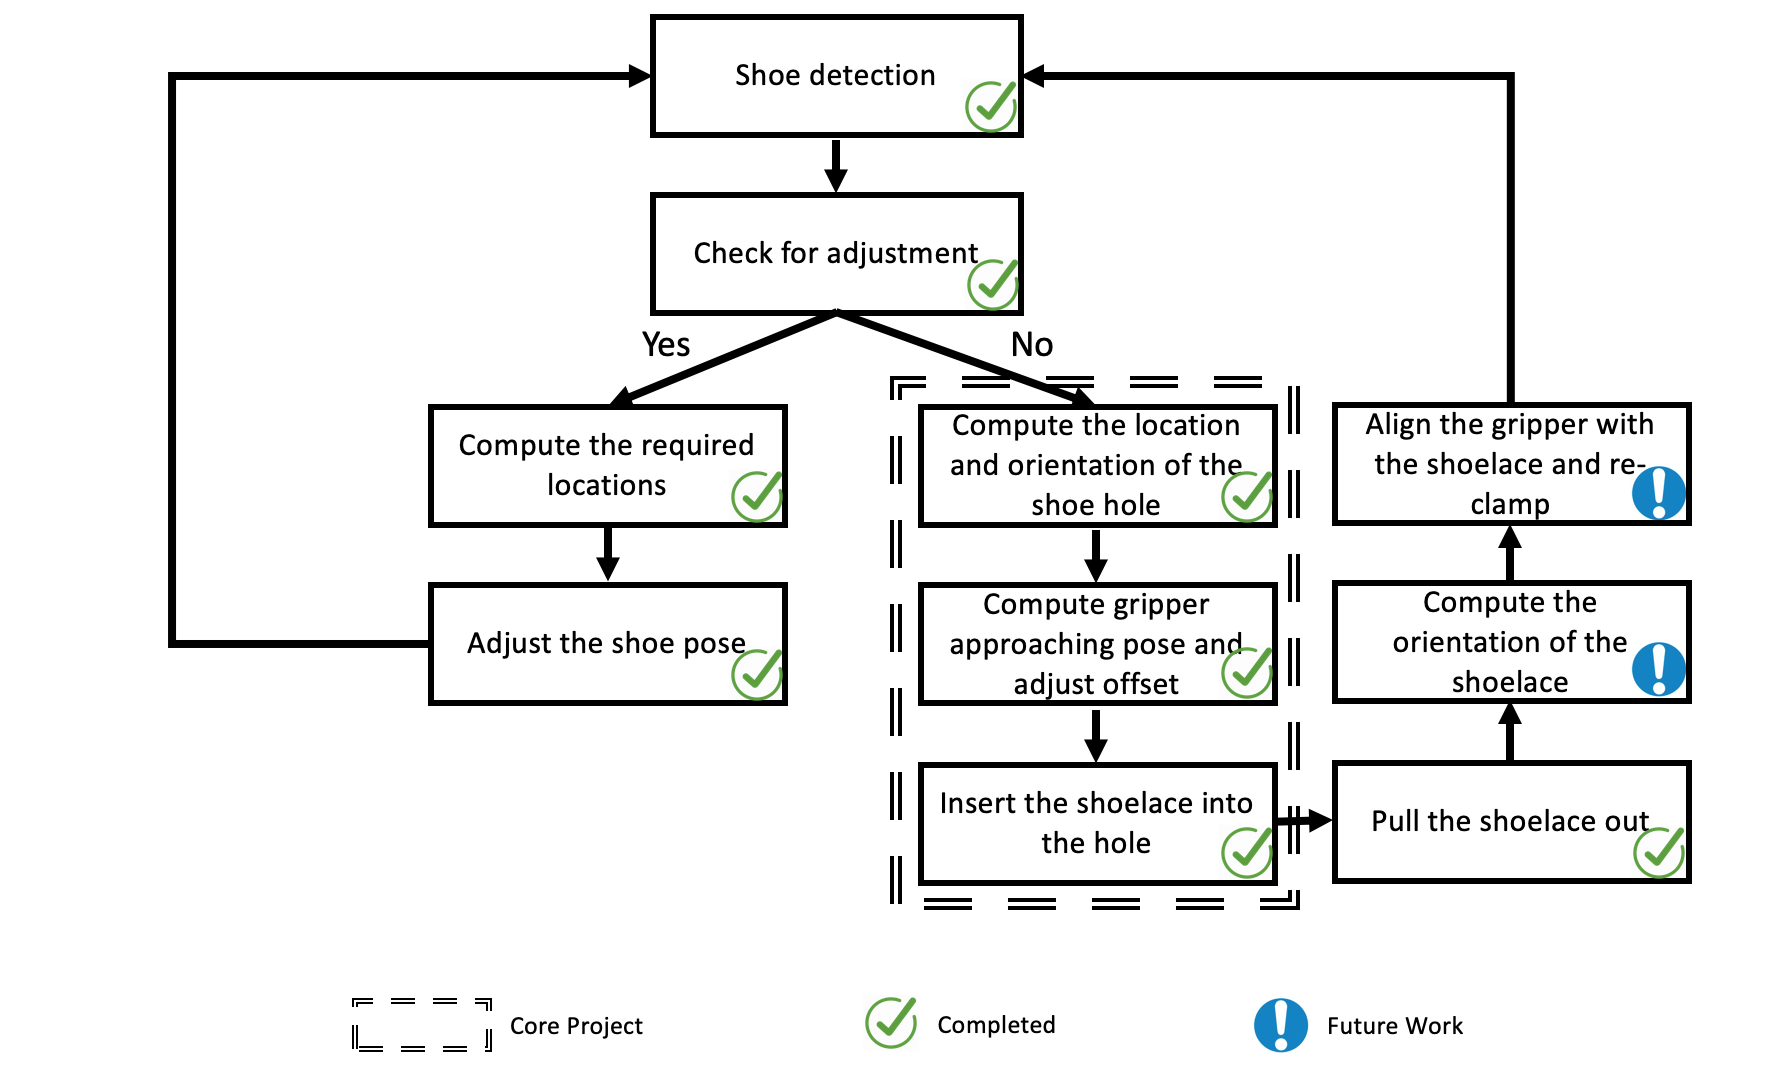
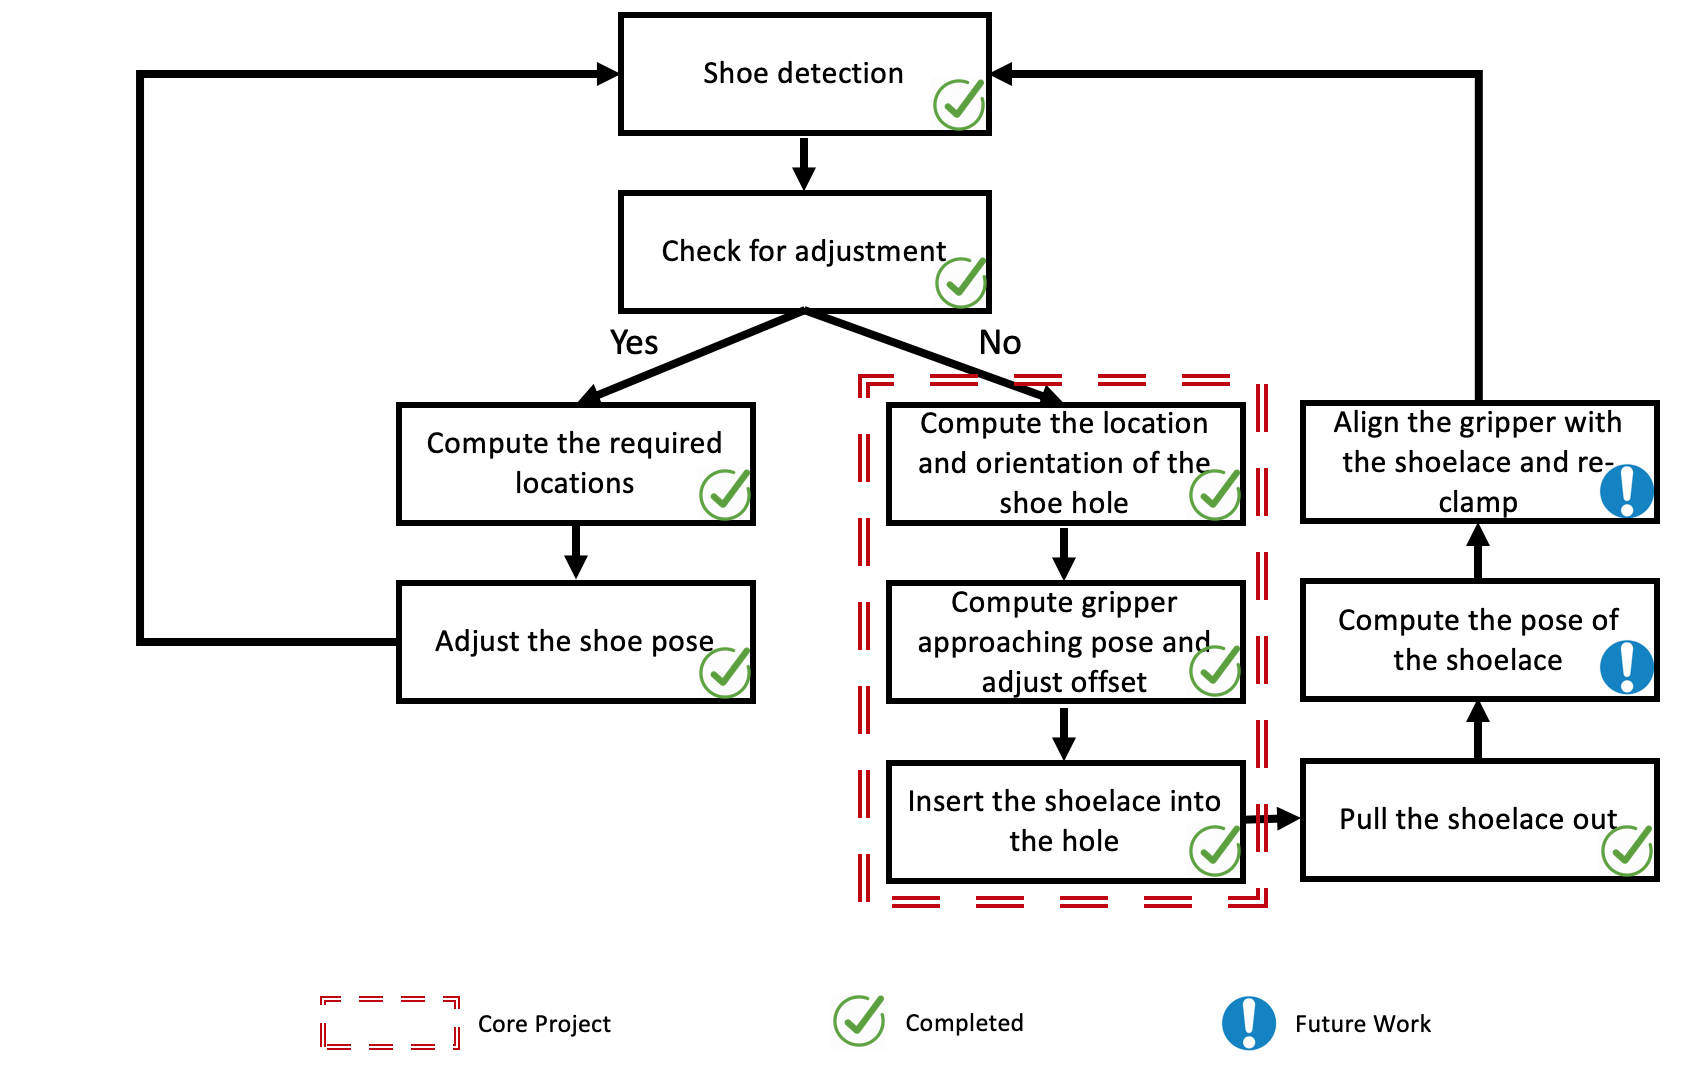
Updates from Overleaf

diff --git a/background/background.tex b/background/background.tex
@@ -3,12 +3,12 @@
 % The background section of the report should set the project into context by relating it to existing published work which you read at the start of the project when your approach and methods were being considered. The published work may be in the form of research papers, articles, text books, technical manuals, or even existing software or hardware of which you have had hands-on experience.
 
 %link (and make explicit this link between) the different topics in a coherent pipeline: hardware-(choice of robot) > motion planning->state information (camera) (object detection +  orientation detection)-> etc
-This chapter contains the background information of this project. Several potential implementation approaches are discussed and the design choices are made. As illustrated in Figure \ref{bgov}, the content starts with robot selection, then dives into motion planning algorithms. The available cameras that provide state information for robot are then evaluated. After that, the techniques for objects 6D pose calculation are summarised and compared, which consists of object detection and orientation estimation. Finally, the system and software to implement the selected methods are introduced.
+This chapter contains the background information of this project. Several potential implementation approaches are discussed and the design choices are made. As illustrated in Figure \ref{bgov}, the content starts with robot selection, then dives into motion planning algorithms. The available cameras that provide state information for the robot are then evaluated and chosen. After that, the techniques for objects 6D pose calculation are summarised and compared, which consists of object detection and orientation estimation. Finally, the system and software that used to implement the selected methods are introduced.
 
 \begin{figure}[H]
 \centering
 \includegraphics[width = \columnwidth]{background/backgroundov.png}
-\caption{}
+\caption{The order of background introduction}
 \label{bgov}
 \end{figure}
 
@@ -35,7 +35,7 @@ The purpose of robotic motion planning is to seek the solution of the problem of
 
 \begin{itemize}
     \item \textbf{Work Space:} The physical space where the robot operates.
-    \item \textbf{Configuration/State Space:} The configuration that describes the robot pose. For a solid 3D robot like YuMi, it can perform both translation and rotation. Therefore, a configuration needs 6 parameters: (x, y, z) for translation and (roll, pitch, yaw) for rotation, whose relationships are shown in Figure \ref{rpy}.
+    \item \textbf{Configuration/State Space:} The configuration that describes the robot pose. For a solid 3D robot like YuMi, it can perform both 3D translation and 3D rotation. Therefore, a configuration needs 6 parameters: (x, y, z) for translation and (roll, pitch, yaw) for rotation, whose relationships are shown in Figure \ref{rpy}.
 \end{itemize}
 
 \begin{figure}[H]
@@ -57,27 +57,27 @@ According to \citep{OMPLPrim20:online}, there are plenty of methods still applic
 \begin{figure}[H]
 \centering
 \includegraphics[width = \columnwidth]{background/cell.png}
-\caption{From left to right: approximate cell decomposition, exact cell decomposition, and motion planning using exact cell decomposition. The blue regions are obstacles. \citep{celldecom}}
+\caption{2D cell decomposition example where the blue regions are obstacles \citep{celldecom}. From left to right: approximate cell decomposition, exact cell decomposition, and motion planning using exact cell decomposition. The available path is through C3, C6, C9, C10, C12, C13, and C15.}
 \label{cell}
 \end{figure}
 
 \begin{itemize}
-    \item \textbf{Exact and Approximate Cell Decomposition:} This approach partitions the work space into discrete cells that corresponding to free space, where edges represent adjacency among cells and vertices indicate the individual cells (see Figure \ref{cell}). Therefore, the motion planning problem becomes a search from starting cell to the cell with goal position. This method has a trade off when setting the grid resolution. Coarser grid gives a faster search, but cannot find path for narrow parts of free space. Moreover, the number of points on the grid is exponentially proportional to configuration space dimension, which is inappropriate for this project.
+    \item \textbf{Exact and Approximate Cell Decomposition:} This approach partitions the work space into discrete cells that corresponding to free space, where edges represent adjacency among cells and vertices indicate the individual cells (see Figure \ref{cell}). Therefore, the motion planning problem becomes a search from starting cell to the cell with goal position. This method has a trade off when setting the grid resolution. Coarser grid gives a faster search, but cannot find path for narrow parts of free space. Moreover, the number of points on the grid is exponentially proportional to configuration space dimension. This project has 6D state space, thus it is inappropriate to use this method.
 
     \item \textbf{Control-based Methods:} This method employed control theory and operates in continuous space. It typically uses feedback loops to manipulate the robot with minimal error. However, in complex dynamics environments, it is hard to calculate a feasible trajectory and the valid motions will be restricted.
+
+    \item \textbf{Potential Fields:} This technique computes a vector at each point in the work space by summing up the an attractive force emanating from the goal, and a repulsive force from all obstacles and the boundaries (see Figure \ref{potentialexample}). It treats the configuration of robot as a point in a potential field. Although it only requires little computation, navigating using gradient descent to follow the potentials to goal can fail due to local minima in the field. This issue occurs when the attractive forces and repelling forces cancel each other out at a specific point.
 \end{itemize}
 
 \begin{figure}[H]
 \centering
-\subfigure[\citep{potential}]{\includegraphics[height=5.3cm,keepaspectratio]{background/potentialfield.png}}
-\subfigure[\citep{3dpotential}]{\includegraphics[height=5.3cm,keepaspectratio]{background/potentialfield3d.jpg}}
-\caption{The potential fields when !! there is a goal and an obstacle}
+\subfigure[Potential field in a 2D space contains a goal and an obstacle \citep{potential}]{\includegraphics[height=5.3cm,keepaspectratio]{background/potentialfield.png}}
+\subfigure[Potential field in 3D space \citep{3dpotential}. Warm colors represent high potential (obstacles) and cool colors indicate low potential (goals).]{\includegraphics[height=5.3cm,keepaspectratio]{background/potentialfield3d.jpg}}
+\caption{Example of the potential field approach}
 \label{potentialexample}
 \end{figure}
 
 \begin{itemize}
-    \item \textbf{Potential Fields:} This technique computes a vector at each point in the work space by summing up the an attractive force emanating from the goal, and a repulsive force from all obstacles (see Figure \ref{potentialexample}). It treats the configuration of robot as a point in a potential field. Although it only requires little computation, navigating using gradient descent to follow the potentials to goal can fail due to local minima in the field.
-    
     \item \textbf{Randomized Planning:} Randomization can be effective in motion planning. For example, in potential fields, it has been shown that Brownian motions where applying a random action for a specific amount of time can effectively guide a system out of the local minima.
 \end{itemize}
 
@@ -112,7 +112,7 @@ There are many existing sampling-based algorithms, such as Rapidly-expanding Ran
 \subfigure[The first few random valid samples have been connected to the tree using an expansion heuristic]{\includegraphics[width = 0.45\columnwidth]{background/rm5.png}}
 \subfigure[Case when the goal cannot be connected to the tree because of an obstacle]{\includegraphics[width = 0.45\columnwidth]{background/rm6.png}}
 \subfigure[Case when the goal can be connected to the tree]{\includegraphics[width = 0.45\columnwidth]{background/rm7.png}}
-\caption{Tree-based Planners example \citep{OMPLPrim20:online}}
+\caption{Tree-based planners example \citep{OMPLPrim20:online}}
 \label{tree}
 \end{figure}
 

diff --git a/AnalysisDesign/analysisdesign.tex b/AnalysisDesign/analysisdesign.tex
@@ -18,7 +18,7 @@ The dual-arm robot YuMi communicates with ROS using Personal Robotics Lab setup 
 
 Figure \ref{c4} displays the system overview of this project, which consists six components: the shoe, the camera, computer vision module, ROS Kinetic, motion planning module, and YuMi. Blue arrows represent computer vision messages and orange arrows indicate related motion plans and manipulations.
 
-Starting from the camera, which consistently recording RGB and depth images of the workbench and outputs them to the computer vision module. The module then performs several functions including shoe detection, shoe hole tracking, 6D shoe hole pose estimation etc and publishes the corresponding message to ROS topics. After that, the motion planning module subscribes these information and plans YuMi arms trajectories accordingly to adjust shoe pose or put lace on a hole. If the planning succeeds, YuMi will then execute these motions to manipulate shoe and shoe lace.
+Starting from the camera, which consistently recording RGB and depth images of the workbench and outputs them to the computer vision module. The module then performs several functions including shoe detection, shoe hole tracking, 6D shoe hole pose estimation etc and publishes the corresponding message to ROS topics. After that, the motion planning module subscribes these information and plans YuMi arms trajectories accordingly to adjust shoe pose or put lace on a hole. If the planning succeeds, YuMi will then execute these motions to manipulate the shoe and shoe lace.
 
 %detail---------------------------
 \section{System Workflow}
@@ -26,10 +26,10 @@ Starting from the camera, which consistently recording RGB and depth images of t
 \begin{figure}[H]
 \centering
 \includegraphics[width = \columnwidth]{AnalysisDesign/workflow.png}
-\caption{System workflow}
+\caption{System workflow for both core project and the extension}
 \label{workflow}
 \end{figure}
 
-discussion ................
+Figure \ref{workflow} is the illustration of the system workflow, where orange boxes are motion planning related and blue boxes are about computer vision. Starting with shoe detection, the system will then evaluate whether the shoe is in a good pose for manipulation or not. If the answer is negative, the required locations for adjustment will be computed and YuMi should manipulate the shoe accordingly. On the contrary, the system will compute the gripper approaching pose for shoelace insertion based on the estimated 6D pose of the shoe hole. Once the offset being correctly adjusted, YuMi will pass the shoelace into that hole and pull it out. Finally, the 6D pose of the shoelace will be calculated and the YuMi will reclamp it so that the gripper and shoelace can be aligned. After this stage, the system is back to shoe detection and ready for next hole.
 
-The following two chapters will discuss detailed implementation approaches.
+This workflow allows YuMi to plan a sequences of arm trajectories to put the shoelace on the shoe hole up to finishing the whole shoe. The following two chapters will discuss detailed implementation approaches for computer vision module and motion planning module respectively.

diff --git a/TaR/tar.tex b/TaR/tar.tex
@@ -4,7 +4,7 @@ In order to examine the performance and robustness of my approach, a serious of 
 
 In all experiments, I utilize the same platform as shown in Figure \ref{5.1}. It consists of a YuMi robot and an external camera (ZED Mini or ASUS Xtion). In order to maximize the accuracy while ensuring a reasonable frame speed, ZED Mini camera with 1080p resolution is chosen for all the experiments in this chapter. The marked shoe will be placed on the workbench within the area YuMi can reach. All tests were conducted under normal lighting conditions. 
 
-\section{Shoe Detection and Coordinate Estimation}
+\section{Computer Vision Module}
 The purpose of this part experiment is to assess the robustness of object detection and if the system can correctly compute adjustment locations or the centroid of the shoe hole.
 
 The marked shoe will be placed at random location on the workbench for 10 times, together with other disturbing objects. For each location, I rotate the shoe 5 times to adjust its orientation. YOLO algorithm will be used to perform shoe detection and return the prediction probability and the bounding box. Its performance is illustrated in Table \ref{yolotest}.
@@ -78,7 +78,7 @@ Shoe pose adjustment & 33s & 19/20 \\ \hline
 The execution time is measured from \ref{realadjust} (a) to \ref{realadjust} (e), including total 5 movements. In 19 runs, YuMi finishes its job without failures. Only one adjustment fails: after YuMi adjusting the orientation of the shoe, both arms tried to return to Home pose, which is the motion after \ref{realadjust} (e). At this time, the left arm of YuMi collided with the heel-cap of the shoe because the height of end-effector is relatively low. The robot then stopped operation due to this detected collision. After I modifying the height settings at \ref{realadjust} (e), this problem was resolved and did not happen in later tests.
 
 
-\section{Insertion and Pulling of The Shoelace}
+\section{Insertion and Pulling of the Shoelace}
 So far, the accuracy of YuMi's approaching pose for shoelace insertion still depends on two factors: the accuracy of estimation of shoe hole orientation, and the offset adjustment. Together with my motion planning algorithm, the real shoe insertion tests were carried out 30 times based on the condition that the 2D pixel centroid of the shoe hole and its contour area are correctly computed. It was mentioned in the Requirement Capture Chapter that shoelace were assumed to be in YuMi gripper at the beginning. Therefore, in this experiment, I manually put the shoelace in the gripper and align their directions at initial stage (Figure \ref{putexample} (a)).
 
 This experiment is divided into three levels: pass the shoe hole with $2.5mm$ radius, pass the shoe hole with $4.0mm$ radius, and pass the shoe hole with $7.5mm$ radius. The results are shown in Table \ref{insert}, where the execution time is recorded between Figure \ref{putexample} (a) and Figure \ref{putexample} (e), a total of three actions. 

diff --git a/introduction/introduction.tex b/introduction/introduction.tex
@@ -9,7 +9,7 @@ Speaking of non-industry environments, robot manipulation tasks usually cannot r
 \section{Objectives}
 %ability independently to formulate and solve technical problems in project work. 
 %project is intended to deliver, hardware, software, simulation, and analytical work.
-Therefore, as my final year project, I aim to develop an algorithm for a bi-manual robot so that it can put shoelace on a shoe. In the core project, starting with one arm holding one end of the shoelace, the robot should detect a shoe hole and plan an arm trajectory to pass the shoelace through that hole. As an extension, the robot should be able to plan sequences of trajectories in order to complete the whole shoe.
+Therefore, as my final year project, I aim to develop an algorithm for a bi-manual robot so that it can put shoelace on a marked shoe. In the core project, starting with one arm holding one end of the shoelace, the robot should detect a shoe hole and plan an arm trajectory to pass the shoelace through that hole. As an extension, the robot should be able to plan sequences of trajectories in order to complete the whole shoe.
 
 \section{Challenges}
 Due to the relatively small size of the shoe hole, this project requires a high degree of precision. Firstly, the optimal methods to localize the shoe hole need to be figured out. Then, the main challenge is to calculate the direction in which the lace should pass through the shoe hole in the dynamic environment. In addition, how to use robot arms to achieve this task accordingly also requires an accurate analysis. Finally, plenty of tests regarding the whole system need to be done in order to optimize the performance.
@@ -19,7 +19,7 @@ This report is structured as follows:
 
 \begin{itemize}
     \item \textbf{Chapter 2 - Background} provides a background analysis of this project, including the choice of robot and camera, possible implementation approaches for both motion planning and computer vision side, as well as the chosen operating system and software. 
-    \item \textbf{Chapter 3 - Requirement Capture} describes the detailed deliverables of the core project and extension, so that the reader can keep the objectives in mind while reading the remaining part.
+    \item \textbf{Chapter 3 - Requirement Capture} describes the detailed deliverables of the core project and the extension, so that the reader can keep the objectives in mind while reading the remaining part.
     \item \textbf{Chapter 4 - Analysis and Design} introduces the designed system overview and workflow in order to achieve both the core project and extension. A brief introduction to the operating system and the robot status is included as well.
     \item \textbf{Chapter 5 and 6 - Implementation} gives the detailed approaches to fulfill the project requirements.
     \item \textbf{Chapter 7 - Testing and Results} presents a series of experimental results of the implemented methods. Success rate and execution time are the two evaluation criteria.

diff --git a/main.tex b/main.tex
@@ -34,7 +34,7 @@ Robot motion planning based on computer vision is an important topic in the fiel
 
 In this project, I address the precise AI planning and control problem of putting shoelaces on a marked shoe using a bimanual robot, ABB YuMi, and an external camera. Starting with one arm holding one end of the shoelace, YuMi can adjust the orientation of the shoe if necessary, then pass the shoelace through the shoe hole. As an extension, YuMi will also plan sequences of trajectories for completing more holes up to finishing the whole shoe.
 
-The main emphasis of this project is on computing the precise 6D pose of the shoe hole in order to estimate the approaching pose of YuMi’s arm accordingly. The final approach to tackle this problem is by combining random sample consensus (RANSAC) technique and some pre-defined constraints. Other topics including dual arm motion planning, object detection and localization, and accurate offset adjustment are also covered. Every single function, as well as the whole process, is then experimented and evaluated.
+The main emphasis of this project is on computing the precise 6D pose of the shoe hole in order to estimate the approaching pose of YuMi’s arm accordingly. The final approach to tackle this problem is by combining random sample consensus (RANSAC) technique and some pre-defined constraints. Other topics including dual arm motion planning, object detection and localization, and accurate offset adjustment are also covered. Every single function, as well as the integrated system, is then experimented and evaluated.
 \end{abstract}
 
 \renewcommand{\abstractname}{Acknowledgements}

diff --git a/appendix/figtab.tex b/appendix/figtab.tex
@@ -1,14 +1,8 @@
 \appendix
 \chapter{Figures and Tables}
+%Information typically included are things like program listings, complex circuit diagrams, tables, proofs, graphs or any other material which would break up the theme of the text.
 
-%Self-propelled arrangement of and conduct at project meetings. 
-%Setting agendas and work plans. 
-%Ownership of project specification and development of objectives. 
-%Appropriate self-driven use of supervisor (or other people) as source of information and advice.
-
-%Information typically included are things like program listings, complex circuit diagrams, tables, proofs, graphs or any other material which would break up the theme of the text if it appeared in situ.
-
-Appendix A — put a small introduction on what will the reader see in this appendix
+%!!!!!!!!!!!!!!!!put a small introduction on what will the reader see in this appendix
 
 \begin{figure}[H]
 \centering

diff --git a/UserGuide/userguide.tex b/UserGuide/userguide.tex
@@ -1,10 +1,11 @@
 \chapter{User Guide}
+This guide aims to support anyone who would like to use the delivered system or continue this project. The Github repository is \url{https://github.com/Martinpanzy/FYP-Yumi}.
 
-install/ configure/ use
+\section{Dependencies}
+%install/ configure/ use
+\section{ROS Packages}
 
+\section{Usage}
 
-\url{https://github.com/Martinpanzy/FYP-Yumi}
-
-\section{Code}
-
-do not put full code, it will be seen as padding up the thesis for no reason. Point to a GitHub directory, and put in here maybe pseudocode, or configuration file specifications etc. 
+%\section{Code}
+%do not put full code, it will be seen as padding up the thesis for no reason. Point to a GitHub directory, and put in here maybe pseudocode, or configuration file specifications etc. 

diff --git a/Implementation/implement_mp.tex b/Implementation/implement_mp.tex
@@ -82,14 +82,14 @@ def plan_and_move_dual(target_l, target_r):
 
 
 
-\section{Safe Positions Calculation} \label{safetyposescalculation}
+\section{Safe Poses Calculation} \label{safetyposescalculation}
 
 \begin{figure}[H]
 \centering
 \subfigure[Cal pose]{\includegraphics[width = 0.32\columnwidth]{Implementation/mp/calpose.jpg}}
 \subfigure[Home pose]{\includegraphics[width = 0.32\columnwidth]{Implementation/mp/homepose.jpg}}
 \subfigure[Initial pose]{\includegraphics[width = 0.32\columnwidth]{Implementation/mp/initialpose.jpg}}
-\caption{Safe positions of YuMi}
+\caption{Safe poses of YuMi}
 \label{safeposition}
 \end{figure}
 
